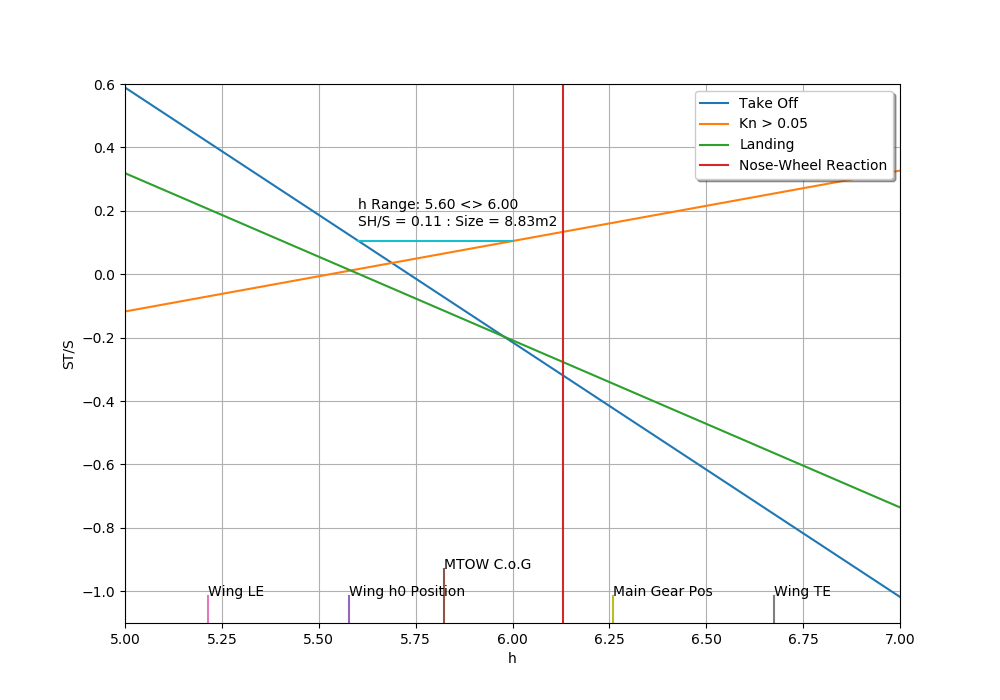
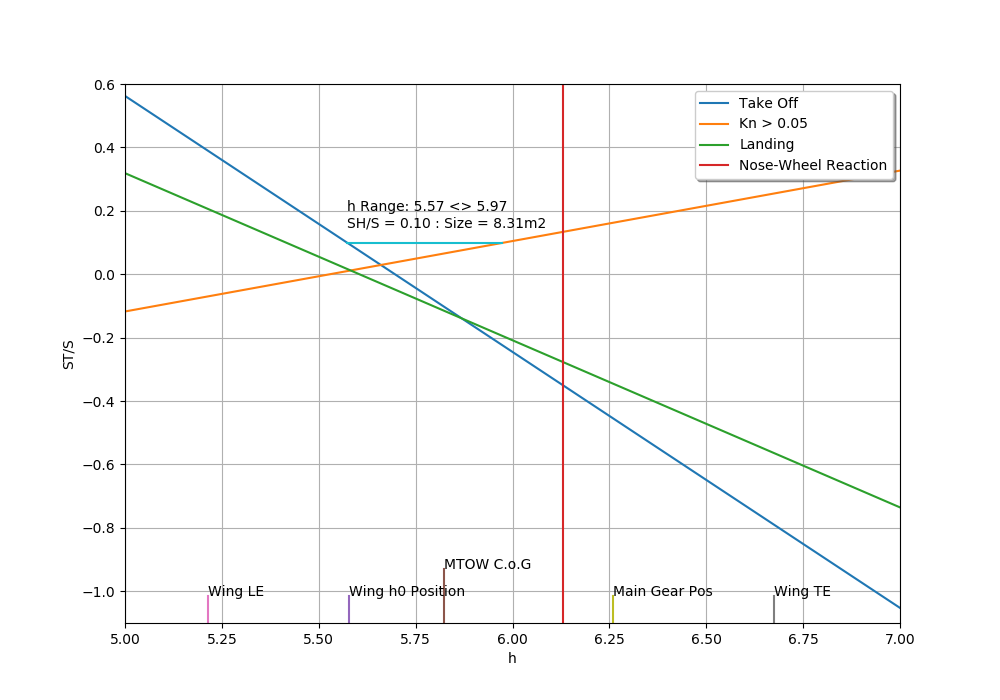
Update thrust and ct_thrust direction

diff --git a/scissorplot.py b/scissorplot.py
@@ -51,8 +51,8 @@ def myfloor(x, base):
 
 # Key Aircraft Params
 c_bar = np.mean([params['Ct'], params['Cr']])
-maxthrust = 44538  # N @ takoff
-vto = 62.1  # m/s
+maxthrust = 44459 * 2  # N @ takoff
+vto = 62.4  # m/s
 cthrust = maxthrust / qS(vto)
 cm0 = -0.0663
 cl_to = 2.549
@@ -88,7 +88,7 @@ def takeOffRotation(h):
     tail_moment_arm = (params['TailRootRearPlane']/c_bar) - h  # The tail moment to h
     # print("Tail moment arm distance = " + str(tail_moment_arm))
 
-    lhs_top = cm0 + cl_moment + ct_moment - (main_gear_moment_distance * (weight_nondim - cl_to))
+    lhs_top = cm0 + cl_moment - ct_moment - (main_gear_moment_distance * (weight_nondim - cl_to))
     #         Cm0 + cl(h-h0)  - ct(dist)  - reaction distance * the weight minus the cl lift
     # print("top = " + str(lhs_top))
     lhs_bottom = (clt*(main_gear_moment_distance-tail_moment_arm))
